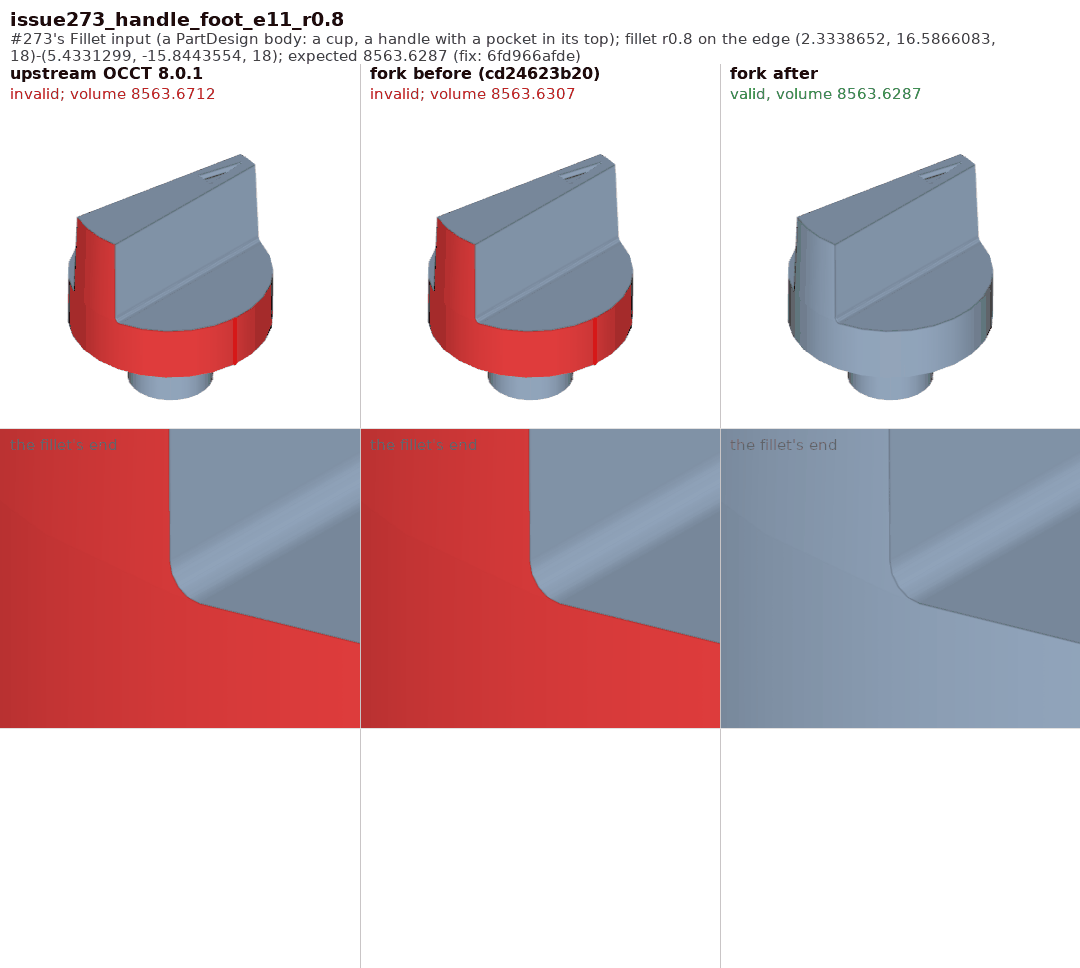
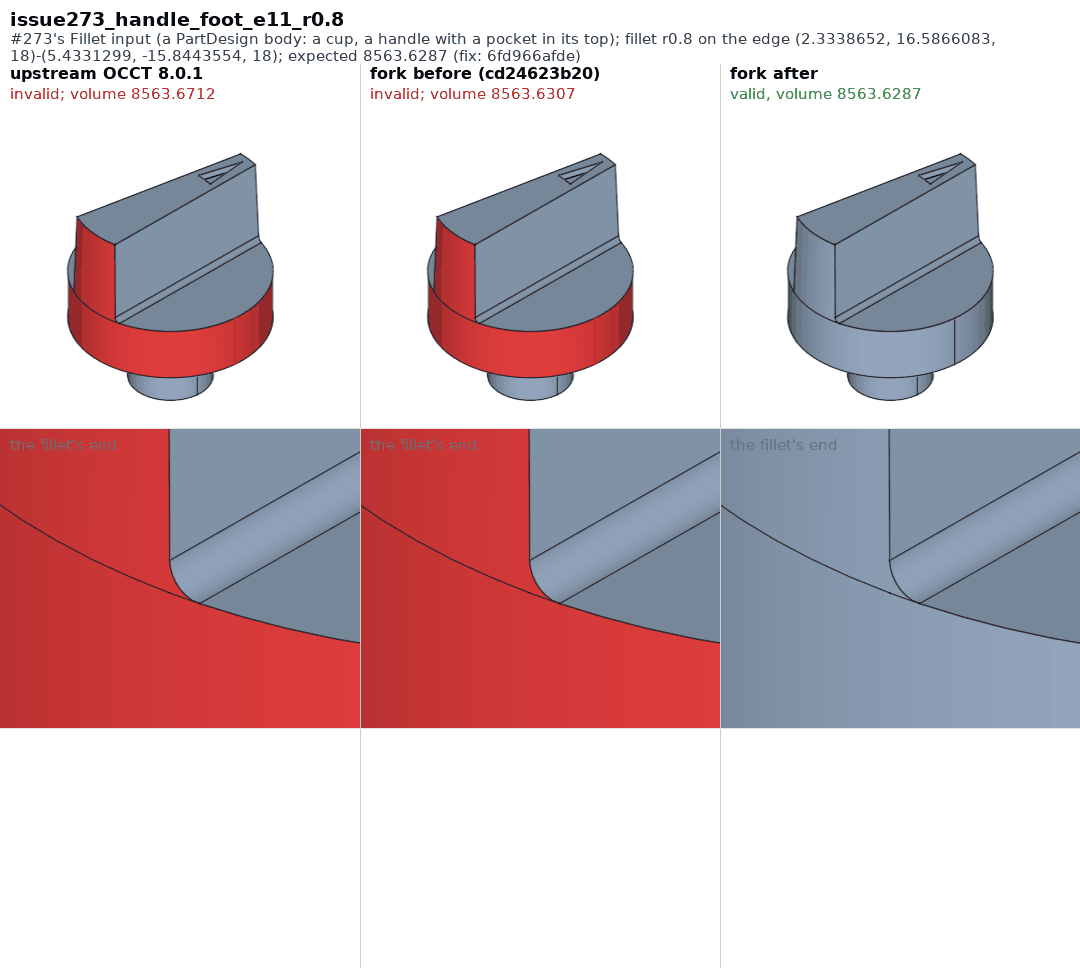
fillet: pictures -- the edges drawn again (progressive loading off)
Since fcad's merge of 2026-10-19 a shape's edges come in after the shot
(progressive loading, the coarse stand-in): the six pictures taken since
had none. render.py turns ProgressiveLoad off and CoarseTessellation and
CoarseDeferFaces to -1, and lets the GUI settle a second before each
shot; the six made again.

Claude-Session: https://claude.ai/code/session_019dJCtsmmZHTdJGXouXkmF8

diff --git a/fillet/pictures/render.py b/fillet/pictures/render.py
@@ -12,6 +12,7 @@
 # linewidth).
 import json
 import os
+import time
 
 import FreeCAD as App
 import FreeCADGui as Gui
@@ -32,6 +33,15 @@ App.ParamGet("User parameter:BaseApp/Preferences/Document").SetInt("TransactionL
 # over the main window. No navigation cube in them either.
 App.ParamGet("User parameter:BaseApp/Preferences/View").SetInt("RenderCache", 0)
 App.ParamGet("User parameter:BaseApp/Preferences/View").SetBool("ShowNaviCube", False)
+# Progressive loading and the coarse stand-in (on by default since fcad's
+# merge of 2026-10-19) bring a shape's edges in late, after the shot: the
+# pictures of 10-19 evening on were taken without them. Both off, and each
+# shot waits for the GUI to settle (SETTLE below).
+_render = App.ParamGet("User parameter:BaseApp/Preferences/View/Render")
+_render.SetBool("ProgressiveLoad", False)
+_render.SetInt("CoarseTessellation", -1)
+_render.SetInt("CoarseDeferFaces", -1)
+SETTLE = 1.0  # seconds of event processing before a shot
 jobs = json.load(open(os.environ["JOBS"]))
 W, H = jobs["size"]
 
@@ -137,8 +147,10 @@ for job in jobs["panels"]:
     eye.normalize()
     up = V(0, 0, 1) if abs(eye.z) < 0.95 else V(0, 1, 0)
     view.setCamera(camera(eye, up, V(*job["center"]), job["height"]))
-    for _ in range(3):
+    t_end = time.time() + SETTLE
+    while time.time() < t_end:
         Gui.updateGui()
+        time.sleep(0.05)
     view.redraw()
     view.saveImage(job["png"], W, H, "#FFFFFF")
     App.closeDocument(doc.Name)
